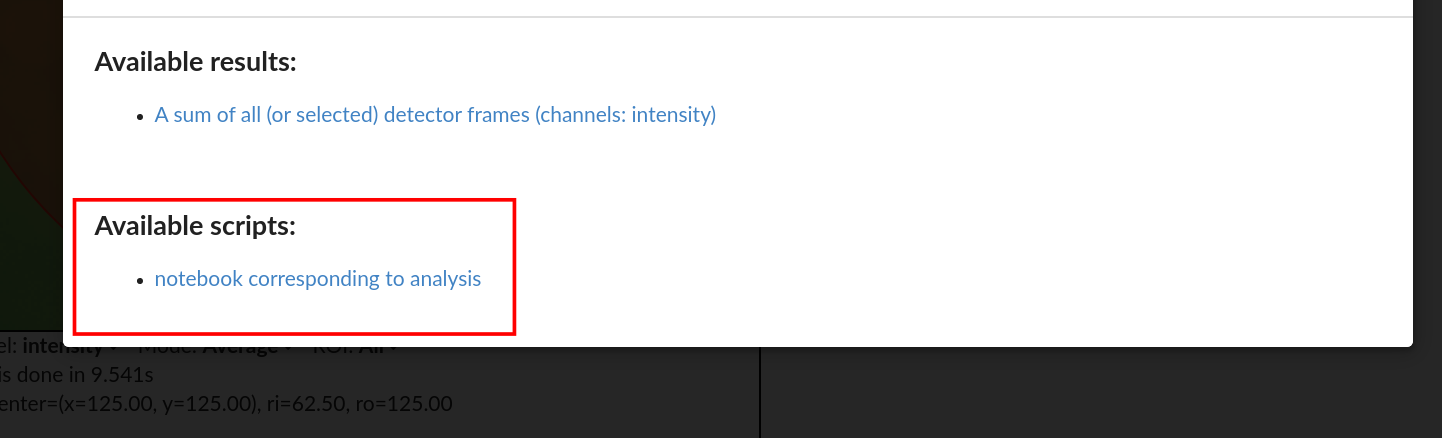
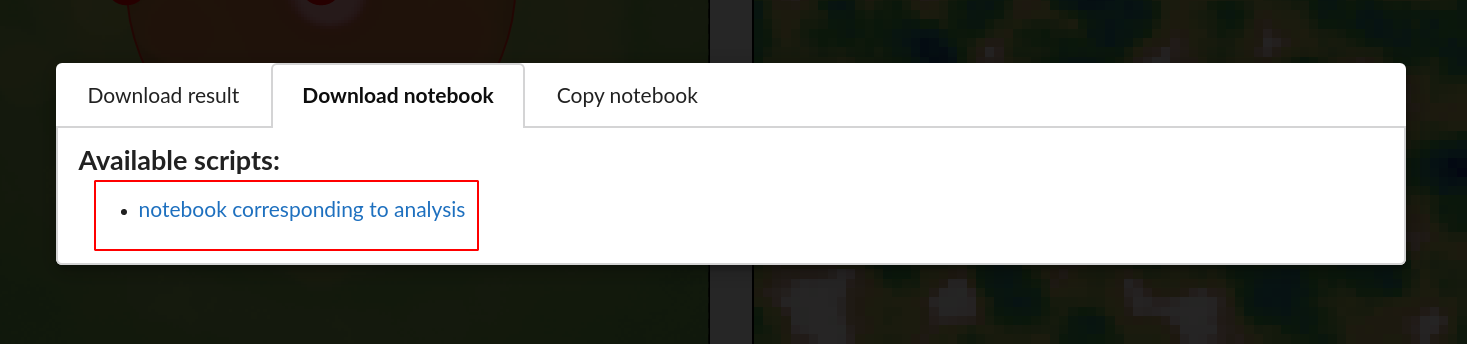
add docs

diff --git a/docs/source/usage.rst b/docs/source/usage.rst
@@ -49,7 +49,7 @@ To access LiberTEM remotely, you can use :ref:`use SSH forwarding <ssh forwardin
 Connecting
 ----------
 
-.. note:: 
+.. note::
 
    The GUI is tested to work on Firefox and Chromium-based browsers for now, if you
    cannot use a compatible browser for some reason, please `file an issue <https://github.com/liberTEM/LiberTEM/issues>`_!
@@ -218,6 +218,11 @@ You can also download a Jupyter notebook corresponding to the analysis and
 continue working with the same parameters using scripting.
 
 .. figure:: ./images/use/download-jupyter.png
+
+Or copy individual cells of Jupyter notebook directly from GUI, also option
+to copy the complete source code.
+
+.. figure:: ./images/use/copy-jupyter.png
 
 Keyboard controls
 ~~~~~~~~~~~~~~~~~
